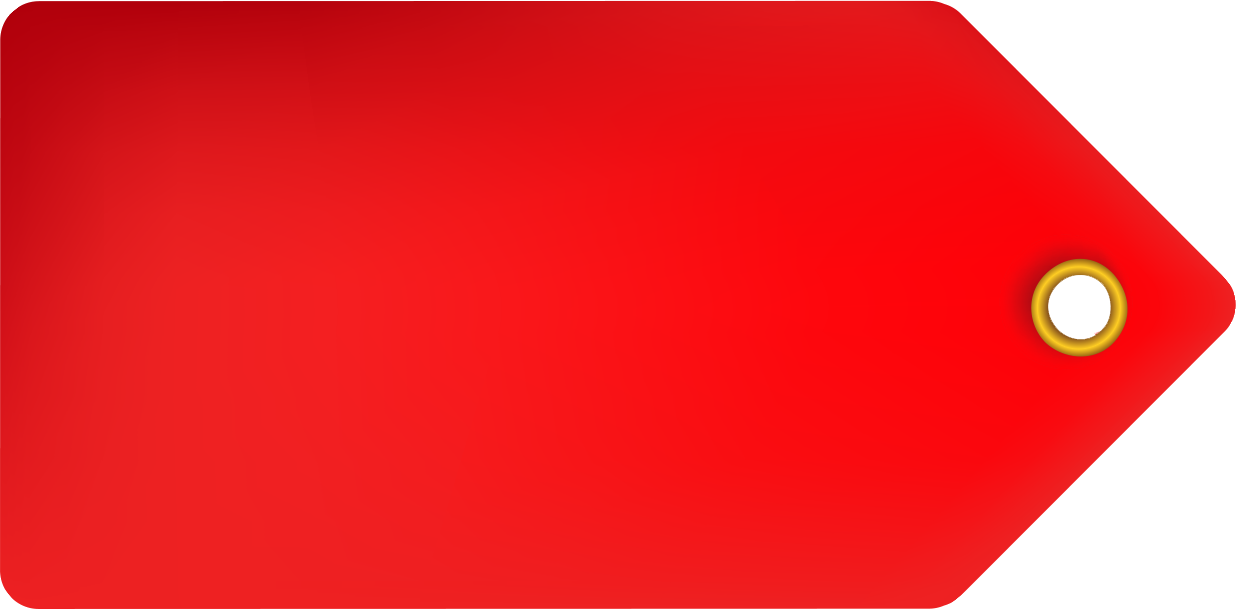
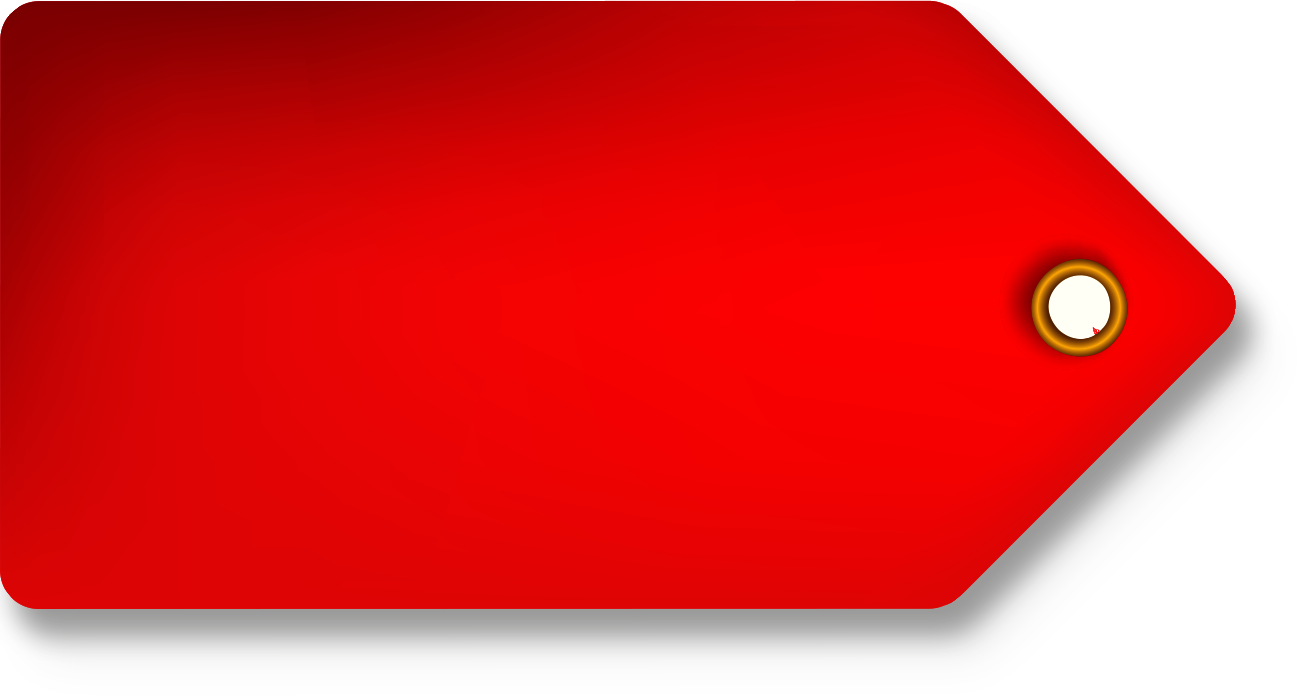
tarjeta de textos aleatorios (sin angular, aun)

diff --git a/pages/static/pages/styles/style.css b/pages/static/pages/styles/style.css
@@ -232,7 +232,80 @@ div.content-stripe > * {
 /* Barra primaria del home */
 
 div#home-bar {
+    height: 288px;
+}
 
+div#red-card {
+    position: relative;
+    width: 400px;
+    height: 288px;
+    display: inline-block;
+    background: url('../images/bg-tarjeta.png') center center no-repeat;
+    background-size: contain;
+}
+
+div#red-card > div#texts {
+    position: absolute;
+    left: 25px;
+    top: 70px;
+    right: 115px;
+    bottom: 95px;
+    font-family: Arial, Helvetica, sans-serif;
+    text-transform: uppercase;
+}
+div#red-card > div#texts > div#text1 {
+    color: white;
+    font-size: 28px;
+    font-weight: 600;
+    line-height: 25px;
+    min-height: 50px;
+    max-height: 50px;
+    overflow-y: hidden;
+}
+div#red-card > div#texts > div#text2 {
+    color: #fff608;
+    font-size: 47px;
+    line-height: 50px;
+    font-weight: 600;
+    min-height: 50px;
+    max-height: 50px;
+    overflow-y: hidden;
+}
+div#red-card > div#texts > div#text3 {
+    color: white;
+    font-size: 14px;
+    font-weight: normal;
+    min-height: 20px;
+    max-height: 20px;
+    overflow-y: hidden;
+}
+
+div#big-image {
+    position: relative;
+    width: 250px;
+    height: 288px;
+    display: inline-block;
+    background-size: contain;
+}
+
+div#promos-reel {
+    position: relative;
+    width: 350px;
+    height: 288px;
+    display: inline-block;
+    -webkit-box-shadow: 4px 4px 5px 0px rgba(100, 100, 100, 0.75);
+    -moz-box-shadow:    4px 4px 5px 0px rgba(100, 100, 100, 0.75);
+    box-shadow:         4px 4px 5px 0px rgba(100, 100, 100, 0.75);
+    -webkit-user-select: none;
+    -moz-user-select: none;
+    -ms-user-select: none;
+    -o-user-select: none;
+    user-select: none;
+    cursor: pointer;
+    background-color: #fff608;
+    border: 1px solid #c0c0c0;
+    padding: 8px;
+    border-radius: 8px;
 }
 
 /* Barra de elementos Informate / Busca / Garantia */

diff --git a/pages/static/pages/scripts/index.js b/pages/static/pages/scripts/index.js
@@ -12,6 +12,11 @@
             promoDerecha: function() { $state.go('promo-derecha') },
             formulario: function(tag) { $state.go('promo-derecha', {tracking: tag}) }
         };
+        $rootScope.randomText = {
+            name: 'Bomba de Gasolina Corsa',
+            offer: '60% DSCT.',
+            foot: 'Promoción por Tiempo Limitado'
+        };
         $state.go('home');
     }]);
 

diff --git a/pages/static/pages/partials/home.html b/pages/static/pages/partials/home.html
@@ -1,0 +1,15 @@
+<div id="home-bar" class="content-stripe">
+    <div id="red-card">
+        <div id="texts">
+            <div id="text1">{{ randomText.name }}</div>
+            <div id="text2">{{ randomText.offer }}</div>
+            <div id="text3">{{ randomText.foot }}</div>
+        </div>
+    </div>
+    <div id="big-image">
+
+    </div>
+    <div id="promos-reel">
+
+    </div>
+</div>
